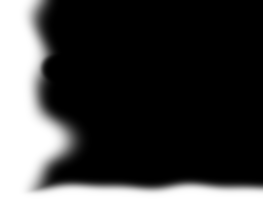
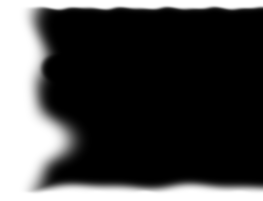
BTS phase 2: alpha 0 at every box edge except the wall (off until approved)
- Every phase 2 edge mask (phones, 960 to 1279, the heroes and the
  footer) now keeps a margin at alpha 0 along the top, bottom and left
  box edges: 7px on phones, 11px from 960px. The margin is applied after
  the mask's blur. Before, the blur spread alpha back to the box edge,
  which left the straight cut under 01 and the seam above 04's sky.
- The left corners are rounded, and the margins fade in short and wavy.
- 02: the top fade curves down at the left, so the coil column's top
  fades (BTS_P2_CORNER).
- 04: the bottom fade rises toward the wall, so the bushes' line
  dissolves.
- HSS_P2 stays off by default; the default build is byte-identical to
  110a031.

Claude-Session: https://claude.ai/code/session_01ToX74WXy7pcyTTtmuot5ru

Changed region(s): [[0.0913, 0.0, 1.0, 0.0597]]

diff --git a/build_site.py b/build_site.py
@@ -4147,8 +4147,9 @@ BTS_WALL = "(100vw + min(100vw - 48px, 1072px)) / 2"     # the wall's distance f
 BTS_P2 = {}      # (range, key): dict of mask sizes and checks
 
 
-def _bts_png(vals, mw, mh, out, clamp=None):
-    """Blur a 0..1 mask lightly and write it as a gray+alpha PNG (CSS masks read alpha)."""
+def _bts_png(vals, mw, mh, out, clamp=None, mult=None):
+    """Blur a 0..1 mask lightly and write it as a gray+alpha PNG (CSS masks read alpha). `mult`
+    (per pixel, 0..1) is applied after the blur, so a margin stays at alpha 0 at the box edges."""
     with tempfile.TemporaryDirectory() as tmp:
         pgm = f"{tmp}/m.pgm"
         with open(pgm, "wb") as f_:
@@ -4158,12 +4159,23 @@ def _bts_png(vals, mw, mh, out, clamp=None):
         if clamp:
             for n in clamp:
                 raw[n] = min(raw[n], 10)
+        if mult:
+            for n, m_ in enumerate(mult):
+                raw[n] = round(raw[n] * m_)
         with open(pgm, "wb") as f_:
             f_.write(b"P5 %d %d 255\n" % (mw, mh) + bytes(raw))
         subprocess.run(["ffmpeg", "-v", "error", "-y", "-i", pgm, "-filter_complex",
                         f"[0:v]format=gray[m];color=c=black:s={mw}x{mh},format=gray[c];[c][m]alphamerge,format=ya8",
                         "-frames:v", "1", "-map_metadata", "-1", out], check=True)
     return [v / 255 for v in raw]
+
+
+# phase 2 corner shaping per crop: "tl" curves the top fade down toward the left (depth as a share of
+# the box height, width as a share of its width); "br" raises the bottom fade toward the wall
+BTS_P2_CORNER = {
+    "wwd02@p": {"tl": (0.35, 0.45)},     # the sky meets the coil column: round it, fade the column top
+    "wwd04@p": {"br": (0.30, 0.40)},     # the bushes' line at the bottom right dissolves
+}
 
 
 def bts_p2_masks(rg, key):
@@ -4215,7 +4227,7 @@ def bts_p2_masks(rg, key):
              for px, py_, rx, ry in BTS_POOLS.get(ck, BTS_POOLS.get(key, ()))]
     quiet = [(cx * Wb, cy * Hm, rx * Wb, ry * Hm) for cx, cy, rx, ry in BTS_QUIET.get(key, ())]
     ramp = min(170, 0.3 * Wb)
-    evals = []
+    evals, margs = [], []
     for j in range(eh):
         Y = j * BTS_MS
         for i in range(ew):
@@ -4239,9 +4251,31 @@ def bts_p2_masks(rg, key):
                 q = math.hypot((X - cx) / rx, (Y - cy) / ry)
                 if q < 1:
                     al *= 1 - _bts_ease(q)
+            corner = BTS_P2_CORNER.get(ck, {})
+            if "tl" in corner:                                  # the top fade curves down at the left
+                dep, wid = corner["tl"]
+                off = dep * Hm * (1 - min(1.0, X / (wid * Wb))) ** 1.5
+                e = (Y - off - 10 * _bts_noise(X * 3, Y * 0.3, 7.0)) / 14
+                al = min(al, 0.0 if e <= 0 else _bts_ease(1 - min(1.0, e)))
+            if "br" in corner:                                  # the bottom fade rises at the wall
+                dep, wid = corner["br"]
+                off = dep * Hm * (1 - min(1.0, (Wb - X) / (wid * Wb))) ** 1.5
+                e = ((Hm - Y) - off - 10 * _bts_noise(X * 3, Y * 0.3, 8.0)) / 16
+                al = min(al, 0.0 if e <= 0 else _bts_ease(1 - min(1.0, e)))
+            # alpha 0 along every box edge except the wall (right), measured at the pixel centres the
+            # browser stretches the mask to, with rounded left corners and a short wavy fade inward
+            Xr, Yr = (i + 0.5) * Wb / ew, (j + 0.5) * Hm / eh
+            dv = min(Yr, Hm - Yr)
+            rc = min(24.0, 0.15 * min(Wb, Hm))
+            d = rc - math.hypot(rc - Xr, rc - dv) if (Xr < rc and dv < rc) else min(Xr, dv)
+            mm, mf, ma, fq = (7, 8, 10, 3.5) if phone else (11, 16, 10, 2.5)
+            e = (d - mm - ma * _bts_noise(Xr * fq, Yr * fq, 6.0)) / mf
+            mg = 0.0 if e <= 0 else _bts_ease(1 - min(1.0, e))
+            margs.append(mg)
+            al = min(al, mg)
             s_ = 0.0 if al < 0.06 else (al - 0.06) / 0.94
             evals.append(s_ * s_ * (3 - 2 * s_))
-    ed = _bts_png(evals, ew, eh, f"{BTS_DIR}/bts-{key}@{rg}-edge.png")
+    ed = _bts_png(evals, ew, eh, f"{BTS_DIR}/bts-{key}@{rg}-edge.png", mult=margs)
     hc = bts_edge_check(cl, mw, mh)
     he = bts_edge_check(ed, ew, eh)
     # the story check: combined alpha at each subject's centre, at the range's narrowest and widest

diff --git a/CLAUDE.md b/CLAUDE.md
@@ -1403,6 +1403,20 @@ which every change must pass:
         - 03 shows Seth's head and shoulders plus the staffer on the monitor from 390px
           (`@s`). Below 390 (`@r`) it shows Seth alone, because the staffer does not fit.
         - 04 uses `wwd04@p`. The legacy `wwd04m` stays unchanged.
+      - **Box edges (round 3, coordinator's seam review):** every phase 2 edge mask is 0 along each
+        box edge except the screen wall. That holds for phones, 960 to 1279, the heroes and the
+        footer.
+        - There is a 7px margin on phones and 11px from 960px. It is measured at the pixel
+          centres the browser stretches the mask to, and the left corners are rounded.
+        - Each margin then fades in over a short, wavy distance.
+        - The margin is applied after the mask's blur (`_bts_png(mult=)`). Before, the blur
+          spread alpha back to the box edge, which left the straight cuts and seams.
+        - `BTS_P2_CORNER` shapes single corners. For 02 the top fade curves down at the left, so
+          the coil column's top fades. For 04 the bottom fade rises toward the wall.
+        - Check: `tools/seam42.mjs`, on rendered pixels at DPR 1 and 2. It scans 6px either side
+          of each box edge (the wall exempt) for a straight 24px run of 3-level steps. Steps also
+          present without the photo, or in the photo itself, are not counted. Pairs touching the
+          fixed header are skipped, because its backdrop blur tints with whatever sits below it.
       - 960 to 1199 and 1200 to 1279: What We Do;
       - 1200 to 1279 also: the /team/ and /contact/ heroes and the footer.
       - Nothing shows at 480 to 959. /book/ and /packages/ heroes show from 1280px only.
